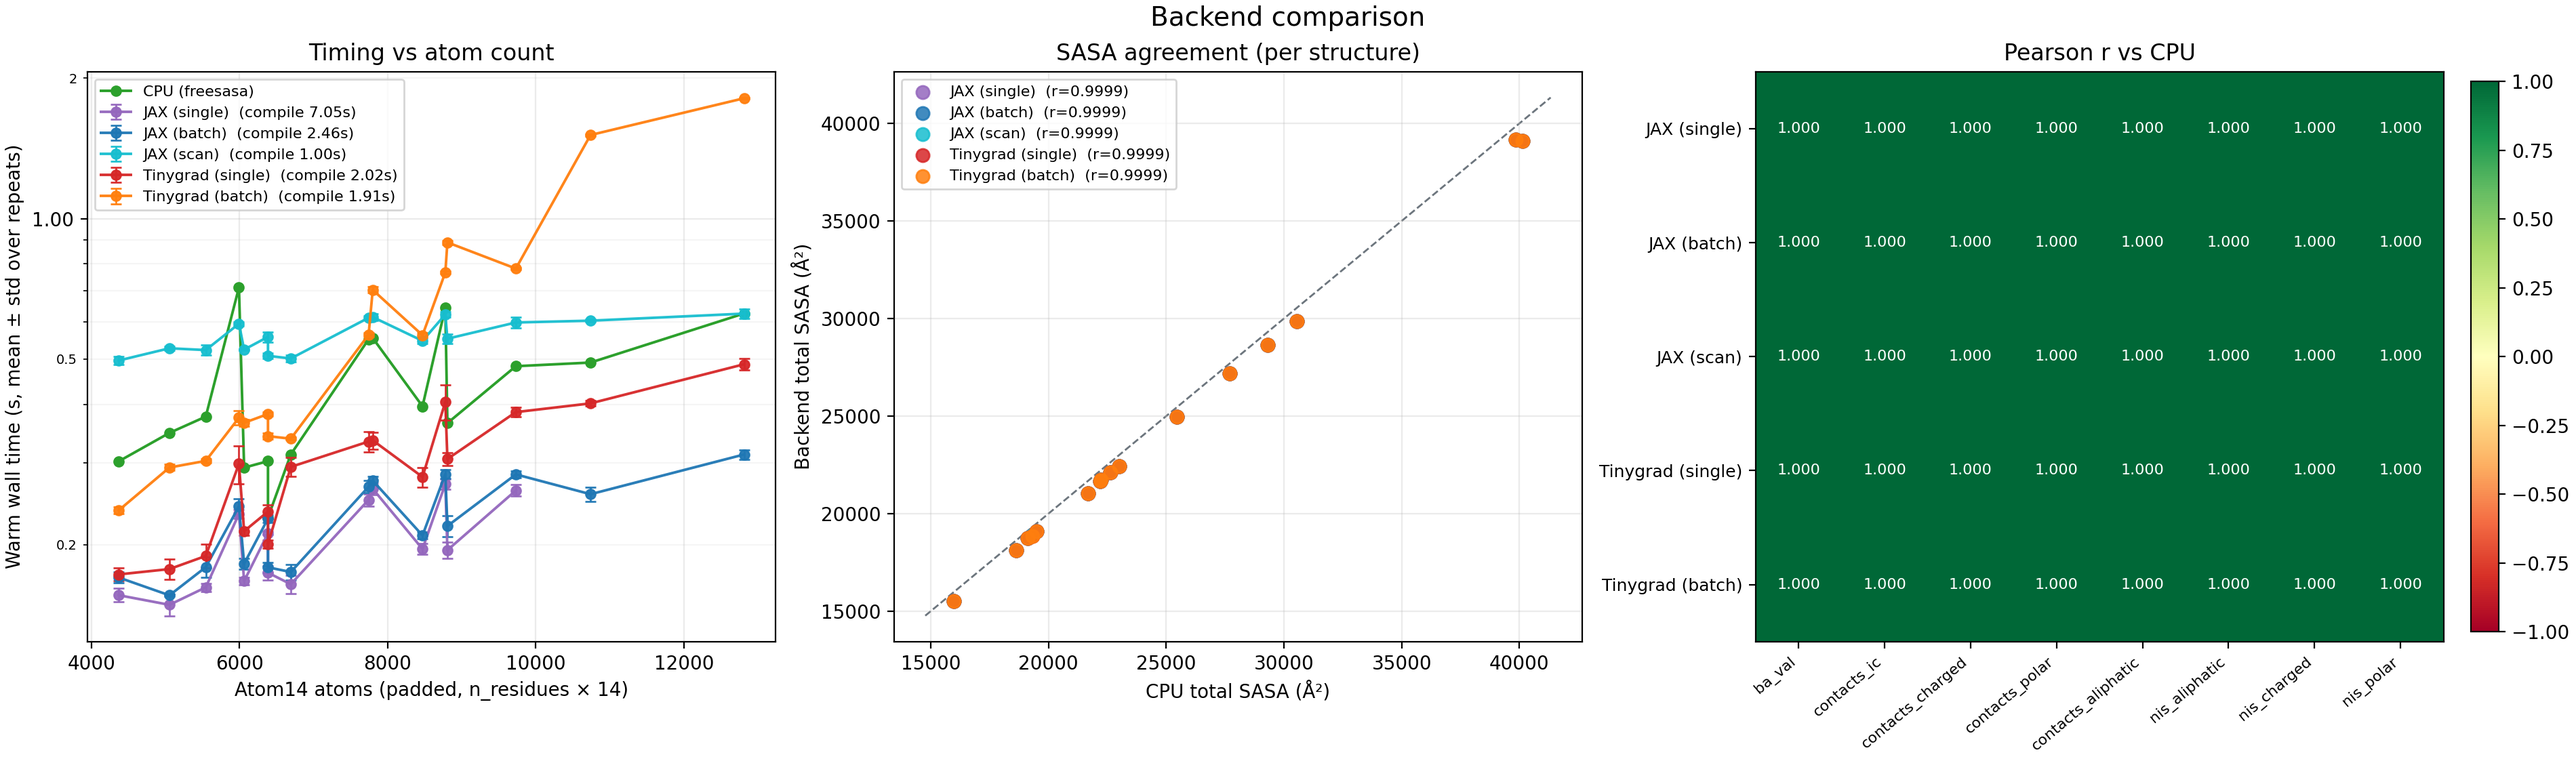
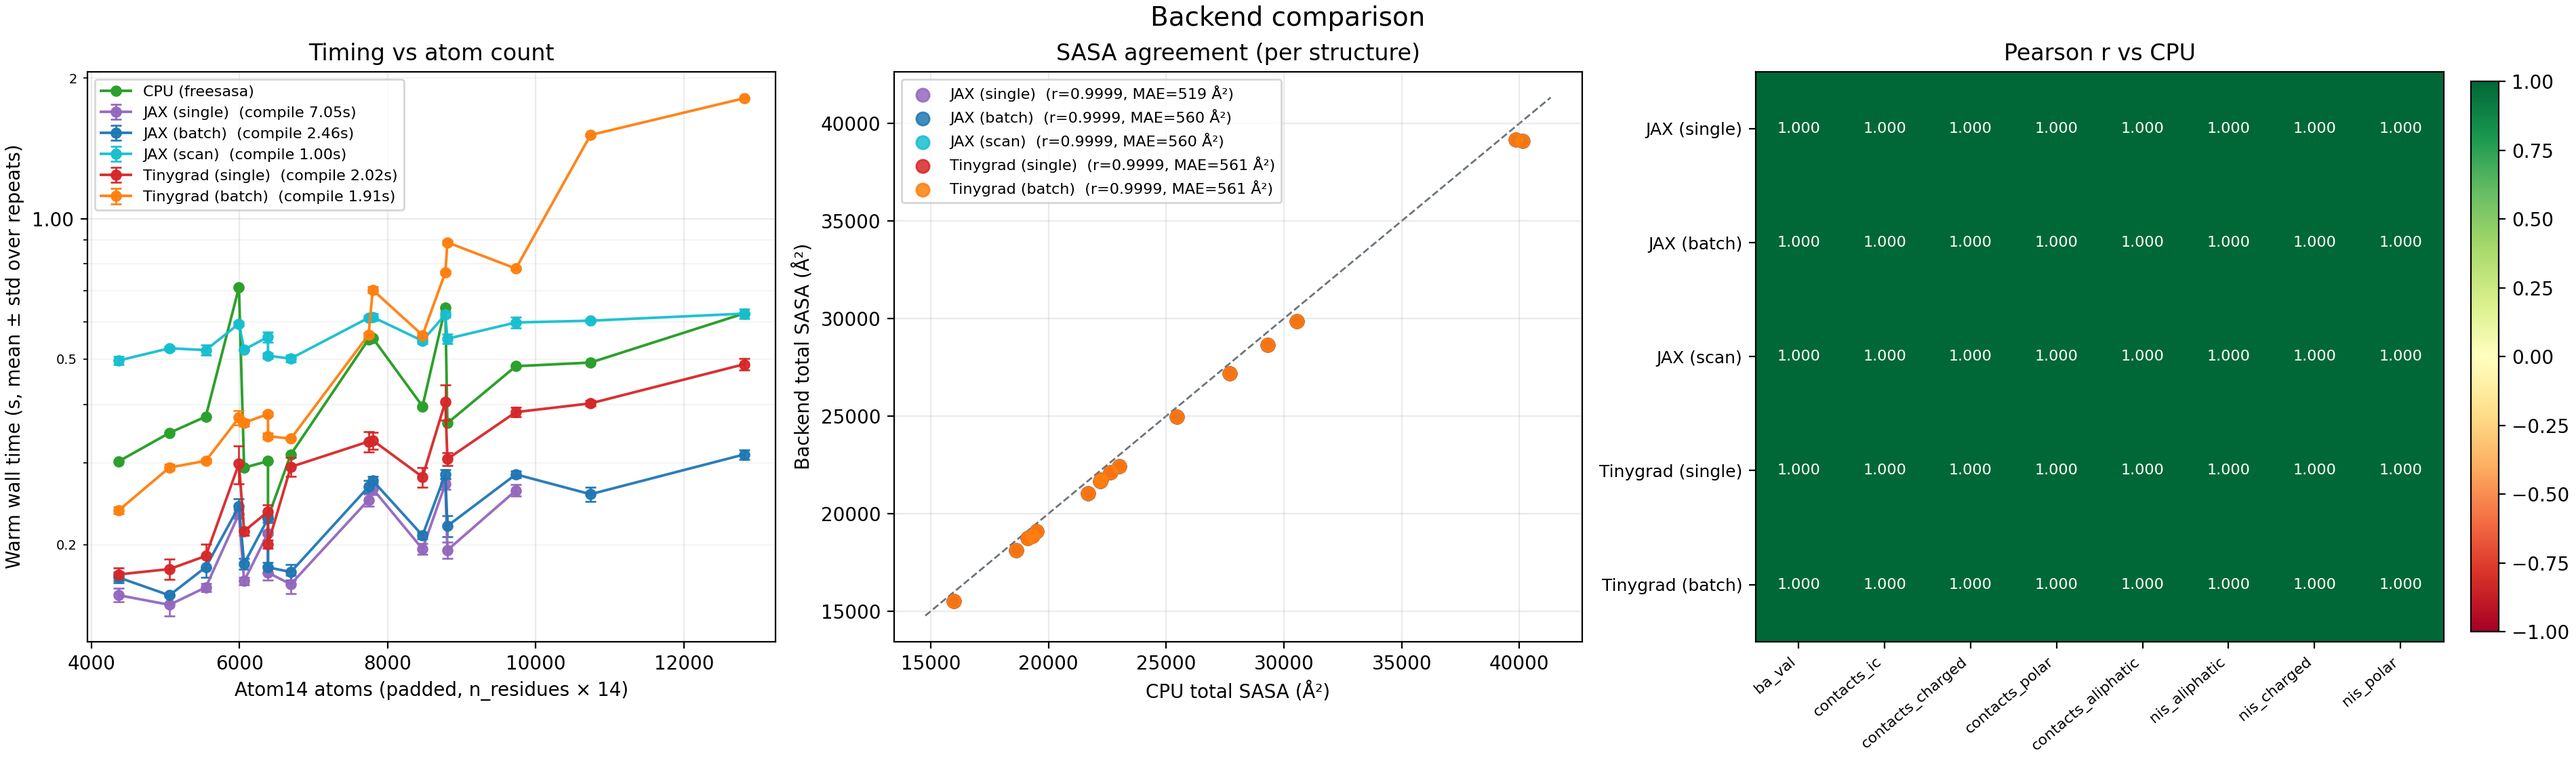
docs(readme): benchmark table + sphere-point + atom14 notes
Extend the benchmark section:
- One combined table (warm-mean, atoms/s, scaling α, cold) over all 8
  backend×device combos.
- Correct CPU row to Shrake-Rupley 100 points (cpu.py:35-36 default),
  not Lee-Richards.
- Add atom14/atom37 layout explainer and a 100-vs-960 sphere-point
  sanity check (tinygrad on 1A2K, 2CFH → ΔTotalSASA ≤ 0.55 %,
  per-atom MAE ≈ 0.5 Å², ΔΔG ≤ 0.11 kcal/mol).
- Refresh PRODIGY references to Vangone & Bonvin 2015 (eLife) and
  Kastritis et al. 2014 (J. Mol. Biol., NIS component).

plot_results.py: annotate MAE alongside Pearson r on the SASA-sum
scatter; regenerate comparison_figure.png from saved CSVs.

sasa.py: inline shape-annotation comments on the fused SR kernel.

Changed region(s): [[0.3416, 0.0938, 0.4968, 0.2812]]

diff --git a/src/protein_affinity_gpu/sasa.py b/src/protein_affinity_gpu/sasa.py
@@ -331,35 +331,39 @@ def calculate_sasa_batch_scan(
 
 @jit
 def _calculate_sasa_jax_impl(
-    coords: jnp.ndarray,
-    vdw_radii: jnp.ndarray,
-    mask: jnp.ndarray,
-    sphere_points: jnp.ndarray,
+    coords: jnp.ndarray,          # [N, 3]
+    vdw_radii: jnp.ndarray,       # [N]
+    mask: jnp.ndarray,            # [N]
+    sphere_points: jnp.ndarray,   # [M, 3]
     probe_radius: float = 1.4,
 ) -> jnp.ndarray:
     """Fully vectorized Shrake–Rupley SASA — single ``@jit`` pass, no block loop."""
     masked_coords, radii_with_probe, coords_norm2, radii_probe_sq = _precompute_sasa_inputs(
         coords, vdw_radii, mask, probe_radius
-    )
+    )  # [N, 3], [N], [N], [N]
     n_atoms = coords.shape[0]
     n_points = sphere_points.shape[0]
 
-    dot_nn = masked_coords @ masked_coords.T
-    dist2_inter = coords_norm2[:, None] + coords_norm2[None, :] - 2.0 * dot_nn
-    radsum2 = (radii_with_probe[:, None] + radii_with_probe[None, :]) ** 2
-    not_eye = ~jnp.eye(n_atoms, dtype=jnp.bool_)
-    interaction_matrix = (dist2_inter <= radsum2) & not_eye
+    dot_nn = masked_coords @ masked_coords.T                                  # [N, N]
+    dist2_inter = coords_norm2[:, None] + coords_norm2[None, :] - 2.0 * dot_nn  # [N, N]
+    radsum2 = (radii_with_probe[:, None] + radii_with_probe[None, :]) ** 2    # [N, N]
+    not_eye = ~jnp.eye(n_atoms, dtype=jnp.bool_)                              # [N, N]
+    interaction_matrix = (dist2_inter <= radsum2) & not_eye                    # [N, N]
 
-    scaled = sphere_points[None, :, :] * radii_with_probe[:, None, None] + masked_coords[:, None, :]
-    scaled_norm2 = jnp.sum(scaled ** 2, axis=-1)
-    dot = jnp.einsum("nms,ks->nmk", scaled, masked_coords)
-    dist2 = scaled_norm2[:, :, None] + coords_norm2[None, None, :] - 2.0 * dot
+    scaled = (
+        sphere_points[None, :, :] * radii_with_probe[:, None, None]
+        + masked_coords[:, None, :]
+    )  # [N, M, 3]
+    scaled_norm2 = jnp.sum(scaled ** 2, axis=-1)                              # [N, M]
+    # Batched dot products over xyz: dot[n, m, k] = <scaled[n, m, :], masked_coords[k, :]>.
+    dot = jnp.einsum("nms,ks->nmk", scaled, masked_coords)                    # [N, M, N]
+    dist2 = scaled_norm2[:, :, None] + coords_norm2[None, None, :] - 2.0 * dot  # [N, M, N]
 
-    is_buried = (dist2 <= radii_probe_sq[None, None, :]) & interaction_matrix[:, None, :]
-    buried = jnp.any(is_buried, axis=-1).sum(axis=-1)
-    n_accessible = n_points - buried
-    areas = 4.0 * jnp.pi * radii_probe_sq
-    return areas * (n_accessible / n_points)
+    is_buried = (dist2 <= radii_probe_sq[None, None, :]) & interaction_matrix[:, None, :]  # [N, M, N]
+    buried = jnp.any(is_buried, axis=-1).sum(axis=-1)                         # [N]
+    n_accessible = n_points - buried                                          # [N]
+    areas = 4.0 * jnp.pi * radii_probe_sq                                     # [N]
+    return areas * (n_accessible / n_points)                                    # [N]
 
 
 def _log_single_pass_scratch(n_atoms: int, n_points: int, soft: bool) -> None:

diff --git a/benchmarks/plot_results.py b/benchmarks/plot_results.py
@@ -245,9 +245,14 @@ def plot_figure(
             xs = np.asarray([r.get("cpu_sasa_sum") for r in paired], dtype=float)
             ys = np.asarray([r.get(f"{name}_sasa_sum") for r in paired], dtype=float)
             r_value = _pearson(xs, ys)
+            mask = np.isfinite(xs) & np.isfinite(ys)
+            mae = float(np.mean(np.abs(xs[mask] - ys[mask]))) if mask.any() else None
             label = _display_name(name)
             if r_value is not None:
-                label += f"  (r={r_value:.4f})"
+                label += f"  (r={r_value:.4f}"
+                if mae is not None:
+                    label += f", MAE={mae:,.0f} Å²"
+                label += ")"
             ax_sasa.scatter(
                 xs, ys, s=48, alpha=0.85,
                 color=_BACKEND_COLORS.get(name),

diff --git a/README.md b/README.md
@@ -1,18 +1,19 @@
 # protein-affinity-gpu
 
-`protein-affinity-gpu` is a research-friendly Python package for protein-protein binding affinity prediction, solvent-accessible surface area (SASA) analysis, and reproducible CPU/JAX/tinygrad benchmarking.
+`protein-affinity-gpu` started as an entry for the
+[Adaptyv](https://www.adaptyvbio.com/) binder-design competition. I wanted
+to add a loss to AFDesign's hallucination loop —
+specifically **buried surface area (BSA)** — which required writing the
+Shrake–Rupley SASA algorithm in JAX, end-to-end differentiable. Once the
+BSA path worked, the same masking + contact logic scores PRODIGY's IC-NIS
+ΔG, so I wired that up too. (It took longer than expected)
 
-Three first-class backends — CPU (freesasa via PRODIGY), JAX (blocked
-and `lax.scan`-fused Shrake–Rupley), and tinygrad (per-shape `TinyJit`
-block kernel on METAL / CUDA / GPU; full fused kernel on CPU / CLANG).
-Stable differentiable helpers for AFDesign-style losses live in
-[`protein_affinity_gpu.sasa_soft`](src/protein_affinity_gpu/sasa_soft.py),
-[`protein_affinity_gpu.contacts_soft`](src/protein_affinity_gpu/contacts_soft.py),
-[`protein_affinity_gpu.scoring_soft`](src/protein_affinity_gpu/scoring_soft.py),
-and [`protein_affinity_gpu.af_design`](src/protein_affinity_gpu/af_design.py).
-Experimental JAX modes (single-pass, neighbor-cutoff) remain documented in
-[docs/EXPERIMENTAL.md](docs/EXPERIMENTAL.md). See
-[docs/AF_DESIGN.md](docs/AF_DESIGN.md) for the soft-vs-hard design notes.
+At inference the JAX and tinygrad paths reproduce the CPU reference
+(freesasa via PRODIGY) to within ≈ 0.05 kcal/mol on 1A2K and hit equal or
+better wall-clock once the JIT is warm (<1s per structure), tracked in the benchmark panels below.
+
+What's next is using the
+whole pipeline as a **filter on generated bindres designs**  (Still in development).
 
 ## Installation
 
@@ -159,13 +160,27 @@ go deeper on the kernel-level choices.
 
 
 ## Benchmark
+
 On the Kahraman 2013 T3 set (16 two-chain complexes, atom14-padded
 N ∈ [4.4k, 12.8k]) the tinygrad block kernel runs at ~0.69 s warm-mean
 vs ~0.44 s for CPU freesasa — within ~1.6× of CPU — with Pearson
 `r > 0.9998` against CPU on per-structure SASA totals and `r = 1.000`
-on ΔG, Kd, NIS and contact metrics. Per 1 000 padded atoms, M1 Max
-costs ~57 ms (CPU freesasa) and ~84 ms (tinygrad-single); on A100
-jax-scan clocks ~74 ms and tinygrad-single ~39 ms.
+on ΔG, Kd, NIS and contact metrics.
+
+To make CPU and GPU rows directly comparable, all four backends run
+**Shrake–Rupley with 100 sphere points** and the same NACCESS vdW radii
+from [`data/vdw.radii`](src/protein_affinity_gpu/data/vdw.radii); 100 is
+well below the 960 used in the original Shrake–Rupley reference but our
+tinygrad 100-vs-960 sanity check on 1A2K and 2CFH shows total SASA
+shifts by ≤ 0.55 % (per-atom MAE ≈ 0.5 Å², max |Δ| ≈ 4.7 Å²) and
+predicted ΔG by ≤ 0.11 kcal/mol — no meaningful degradation at 100 for
+the PRODIGY scoring function. Sphere points are laid out with a
+**golden-spiral (Fibonacci)** scheme in
+[`sasa.generate_sphere_points`](src/protein_affinity_gpu/sasa.py);
+a **Thomson-sphere** layout (electrostatic-equilibrium, exactly uniform)
+would matter more for integrations where each point's implicit weight
+feeds a quantity like *contact area* — not used here, flagged as the
+alternative if that ever becomes relevant.
 
 The comparison figure below is committed at
 [`docs/assets/comparison_figure.png`](docs/assets/comparison_figure.png).
@@ -178,19 +193,42 @@ gitignored `benchmarks/output/combined/` and is copied into
 
 ### What was compared
 
-Six SASA backends over the 16-complex Kahraman 2013 T3 manifest
+Eight backend×device combinations over the 16-complex Kahraman 2013 T3
+manifest
 ([`benchmarks/datasets/kahraman_2013_t3.tsv`](benchmarks/datasets/kahraman_2013_t3.tsv)),
-atom14-padded N ∈ [4.4k, 12.8k] atoms:
+atom14-padded N ∈ [4.4k, 12.8k] atoms. `Warm` is per-structure warm-mean,
+`atoms/s` is `Σ N / Σ t`, `α` is the log–log slope of `t` vs `N`
+(`t ∝ Nᵅ`), `Cold` is first-call compile + run per structure:
 
-| Backend | Device | Kernel |
-|---------|--------|--------|
-| `cpu` | M1 Max CPU | freesasa via PRODIGY |
-| `tinygrad-block` | M1 Max Metal | per-shape `TinyJit` blocked Shrake–Rupley |
-| `tinygrad-single` | A100-80GB | fully fused `[N, M, N]` kernel |
-| `tinygrad-batch` | A100-80GB | blocked kernel with `block = min(768, N)` |
-| `jax-block` | A100-80GB | blocked Shrake–Rupley |
-| `jax-scan` | A100-80GB | `lax.scan`-fused variant |
-| `jax-single` | A100-80GB | fully fused single-pass kernel |
+| Backend | Device | Kernel | Warm | atoms/s | α | Cold |
+|---------|--------|--------|-----:|--------:|--:|-----:|
+| `cpu` | M1 Max CPU | freesasa Shrake–Rupley, 100 points, real atoms | 0.44 s | ~17 k | ~0.6 | 0.4 s |
+| `tinygrad-single` | M1 Max Metal | fully fused `[N, M, N]` | 0.64 s | ~12 k | ~1.6 | 1.0 s |
+| `tinygrad-batch` (block) | M1 Max Metal | per-shape `TinyJit`, `block = min(768, N)` | 0.70 s | ~11 k | ~1.8 | 0.9 s |
+| `jax-single` † | A100-80GB | fully fused single-pass `[N, M, N]` | 0.20 s | ~34 k | ~0.7 | 7.0 s |
+| `jax-batch` (block) | A100-80GB | blocked SR, Python loop over `@jit`ed kernel | 0.23 s | ~34 k | ~0.6 | 2.7 s |
+| `jax-scan` | A100-80GB | `lax.scan`-fused block loop | 0.56 s | ~13 k | ~0.2 | 1.0 s |
+| `tinygrad-single` | A100-80GB | fully fused `[N, M, N]` | 0.29 s | ~26 k | ~1.0 | 2.0 s |
+| `tinygrad-batch` (block) | A100-80GB | `TinyJit` per `(B, N, M)` | 0.64 s | ~12 k | ~2.0 | 2.0 s |
+
+† `jax-single` excludes 1HE8 (N=12810) and 1Y64 (N=10738) — both OOM on
+80 GB at the ~66 / ~46 GB fused scratch.
+
+- **`jax-scan` cold is ~3× faster than `jax-batch`** because the block
+  loop is hoisted into one `lax.scan` XLA primitive — one small while-body
+  to compile, no tail-block re-compile. `jax-single`'s 7 s cold is the
+  same kernel but one giant HLO per distinct `N`.
+- **Scaling patterns**: A100 JAX is overhead-bound (`α ≈ 0.2–0.7`);
+  `tinygrad-batch` is near-quadratic (per-block Python dispatch doesn't
+  amortize); CPU is sub-linear (freesasa's C Shrake–Rupley uses an
+  internal neighbour/cell list so per-atom work is ~constant).
+- **CPU vs GPU parity**: all backends run Shrake–Rupley at 100 sphere
+  points (see `cpu.py:35-36`); the CPU row differs only in working on the
+  real, un-padded atom set (~1.7× fewer atoms than the atom14-padded GPU
+  tensors) and in freesasa's C neighbour-list implementation vs the GPU's
+  dense `[N, M, N]` probe-scatter. Same algorithm, same integration
+  density — agreement is `r = 0.9999` on SASA and `r = 1.000` on
+  ΔG/Kd/NIS.
 
 ### Commands
 
@@ -253,7 +291,7 @@ uv sync --extra modal
 modal setup
 ```
 ---
-## SASA Algorithm — Shrake–Rupley vs Lee–Richards
+### SASA Algorithm — Shrake–Rupley vs Lee–Richards
 
 All three backends implement the **Shrake–Rupley** rolling-probe algorithm
 (1973). For each atom, a fixed set of points is distributed on the
@@ -283,7 +321,7 @@ downstream PRODIGY metrics (ΔG, Kd, NIS, contact classes) match to
 `r = 1.000`, so the integration error is well below the noise floor of
 the scoring function.
 
-## Van der Waals Radii
+### Van der Waals Radii
 
 SASA computation uses a NACCESS-style van der Waals radii library
 shipped at [`src/protein_affinity_gpu/data/vdw.radii`](src/protein_affinity_gpu/data/vdw.radii)
@@ -293,6 +331,9 @@ lines — that can be swapped for any NACCESS-formatted library (e.g. a
 Bondi set, or a user-patched radius for a non-standard residue) by
 editing the file in place before installing, or by overriding
 `residue_library.default_library` at import time.
+
+
+---
 
 ## AFDesign Integration — soft-scan SASA
 
@@ -356,7 +397,7 @@ NIS / SASA analysis and the `aux["seq"]["soft"]` vs `"pseudo"` choice.
   <https://doi.org/10.1016/j.jmb.2014.04.017>. Introduces the
   non-interacting-surface (NIS) term — polar and charged residues on the
   NIS contribute to `Kd` and `koff` via long-range electrostatics and
-  water–surface interactions — that the 2015 eLife model combines with
+  water–surface interactions — that the model combines with
   inter-chain contacts. The `p_nis_polar` / `p_nis_charged` /
   `p_nis_aliphatic` features in `protein_affinity_gpu.scoring` come from
   this surface model.
